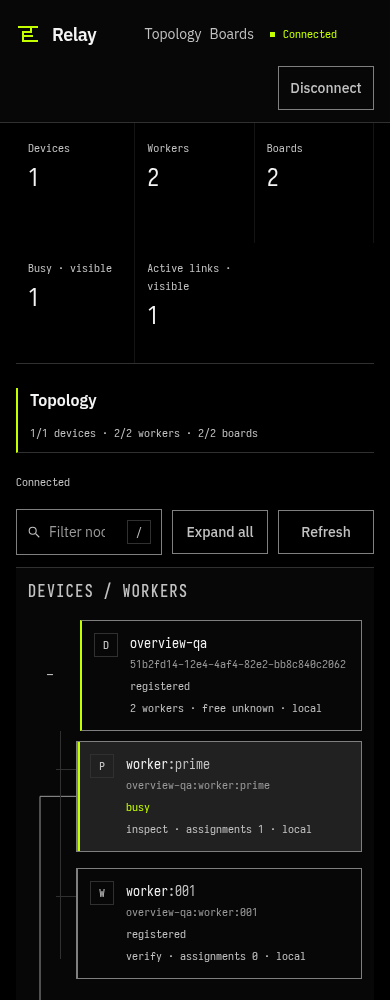
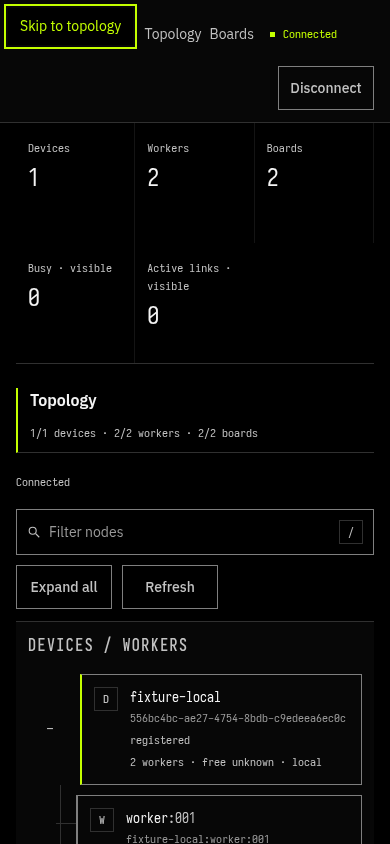
fix(ui): clarify filtered selection and narrow evidence

diff --git a/ui/style.css b/ui/style.css
@@ -157,6 +157,7 @@ a { color: inherit; text-decoration: none; }
 .connection { display: flex; align-items: center; gap: var(--sp-8); min-width: var(--connection-min-w); min-height: var(--connection-h); margin-left: auto; color: var(--c-secondary); font-family: var(--f-mono); font-size: var(--fs-xs); font-variant-numeric: tabular-nums; }
 .connection::before { content: ""; width: 5px; height: 5px; background: currentColor; flex: none; }
 .connection[data-state="connected"] { color: var(--c-accent); }
+.connection[data-state="disconnected"] { color: var(--c-danger); }
 .connection[data-state="error"] { color: var(--c-fg); }
 .connection[data-state="error"]::before { background: var(--c-danger); }
 .quiet-button { background: transparent; font-size: var(--fs-sm); color: var(--c-secondary); }
@@ -294,7 +295,7 @@ kbd { display: inline-grid; place-items: center; width: var(--key-w); height: va
   .inspector-fields dd { margin-top: var(--sp-4); }
   .topology-toolbar { flex-wrap: wrap; }
   .topology-toolbar .status-line { width: 100%; }
-  .filter-control { flex: 1; width: auto; min-width: 8rem; }
+  .filter-control { flex: 0 0 100%; width: auto; min-width: 0; }
   .topology-toolbar .quiet-button { padding-inline: var(--sp-8); }
   .topology-footer > span:last-child { display: none; }
   .section-heading { flex-wrap: wrap; }

diff --git a/quality-report.md b/quality-report.md
@@ -22,6 +22,7 @@ This report covers the Relay overview/topology composition and its existing stat
 | desktop initial | `docs/frames/01-initial-topology.png` | top-down source/record hierarchy, active path, inspector, real committed state |
 | filtered transformation | `docs/frames/02-filtered-transformation.png` | query state, stable inspector, intentional no-match result |
 | mobile composition | `docs/frames/03-mobile-composition.png` | narrow recomposition, two-column metrics, stacked topology and controls |
+| mobile board lane | `docs/frames/04-mobile-board-lane.png` | 390px lower scroll with board tier, inspector, records, and no horizontal overflow |
 | disconnected | `docs/captures/disconnected.png` | explicit disconnected state and recovery affordance |
 | denied | `docs/captures/metadata-denied.png` | explicit permission/error state |
 | cached | `docs/captures/offline-cached.png` | named offline cached state |
@@ -29,7 +30,7 @@ This report covers the Relay overview/topology composition and its existing stat
 | 200% text | `docs/captures/text-200.png` | readable large-text narrow composition |
 | signature recording | `docs/recordings/committed-event.webm` | three-second committed-event pulse captured from the functioning fixture |
 
-The fixture exercised 320, 360, 390, 760, 1000, and 1440 pixel compositions, filter, selection, keyboard navigation, collapse/expand, refresh, committed-event feedback, reduced motion, and state recovery. The captured evidence is generated from an isolated real Relay store and broker.
+The fixture exercised 320, 360, 390, 760, 1000, and 1440 pixel compositions, filter, selection, keyboard navigation, collapse/expand, refresh, committed-event feedback, reduced motion, and state recovery. The responsive capture runner also records the 1440px, 1000px, 390px top, and 390px board-lane compositions in `docs/captures/responsive-capture.json`. The captured evidence is generated from an isolated real Relay store and broker.
 
 ## Accessibility review
 
@@ -50,10 +51,10 @@ The fixture exercised 320, 360, 390, 760, 1000, and 1440 pixel compositions, fil
 
 ## Critical comparison against the design brief
 
-1. **Identity:** Relay's black field, compact typography, square geometry, lime activity, teal board role, gold metadata, and explicit red failure states remain intact.
+1. **Identity:** Relay's black field, compact typography, square geometry, lime activity, teal board role, gold metadata, and explicit red failure states remain intact. Disconnected state now uses the red role marker described by the style bible.
 2. **Distinction:** the two-tier signal lattice and role edge system give the overview a structural identity beyond a conventional list.
 3. **Motion:** the only moving signal represents a real committed event and preserves the existing path.
-4. **Function:** filters, selection, branch collapse/expansion, refresh, inspection, and recovery remain connected to real state.
+4. **Function:** filters, selection, branch collapse/expansion, refresh, inspection, and recovery remain connected to real state. A retained selection is labeled `filtered out` when a query hides it, preserving spatial continuity without implying it remains in the result set.
 5. **Responsive behavior:** desktop, tablet, narrow, and 200% text layouts are intentionally recomposed rather than merely cropped.
 
 ## Human review items

diff --git a/ledger.md b/ledger.md
@@ -41,7 +41,29 @@
 - Disconnected, denied, cached, and empty states are explicit and visually distinct.
 - Text at 200% remains readable in the captured narrow state.
 
-**Remaining review item:** the agent family spawned for an independent critic could not be collected because the plugin returned `AGENTS_BUSY: no agent family belongs to this conversation`. This ledger is therefore an explicitly non-independent review. A human should inspect the live experience with a real device/browser pair before publication.
+**Historical note:** this round was explicitly non-independent because the first critic worker family could not be collected. It is retained as a record of the self-review, not as the final approval.
+
+## Round 3: independent final review and correction pass
+
+**Evidence:** fresh independent inspection of the rendered frames, the live fixture, and the responsive capture runner on 2026-10-18.
+
+**Findings**
+
+1. A retained inspector selection needed an explicit `filtered out` cue when a query produced no matching topology nodes.
+2. The narrow filter control was visually cramped; a full-row control makes its placeholder and action affordance readable at 390px.
+3. Disconnected state needed the red failure marker defined by the style bible.
+4. The original narrow frame did not show the lower board/inspector lane.
+
+**Corrections**
+
+- The inspector now receives the active query and labels a retained selection `Worker · filtered out` when the result set hides it.
+- Narrow filters occupy a full row while action buttons retain their 96px contract.
+- Disconnected connection markers use the danger role color.
+- Added `docs/frames/04-mobile-board-lane.png` and `docs/captures/responsive-capture.json`; refreshed the filtered and top narrow frames from the current fixture.
+
+**Verification:** overview fixture 18 passed with zero runtime exceptions and zero CSP violations; native package checks and repository tests rerun after the correction pass.
+
+**Independent verdict:** `ship` for the scoped source and fixture-verified experience, with the live-device review items in `quality-report.md` remaining human-owned.
 
 ## Verdict
 

diff --git a/interaction-map.md b/interaction-map.md
@@ -6,7 +6,7 @@
 | connect | connect/retry control | status changes when the real connection resolves | topology is populated only from the returned snapshot | Enter/Space on focused control |
 | connected | authenticated snapshot | devices, workers, boards, and records render in the two-tier lattice | inspector keeps the current selection or chooses the first real object | Tab through semantic controls |
 | select node | click/tap a device, worker, or board | role edge and selection marker move; inspector updates | topology does not reflow around the inspector | Arrow keys move through visible node order; Enter selects |
-| filter | type in topology filter | only matching branches remain; empty copy appears when there are no matches | clearing the filter restores the prior lattice | input supports normal text editing and Escape clear where provided |
+| filter | type in topology filter | only matching branches remain; empty copy appears when there are no matches; a retained selection is labeled filtered out in the inspector | clearing the filter restores the prior lattice | input supports normal text editing and Escape clear where provided |
 | collapse branch | collapse control on a device/worker branch | branch contents hide and control label changes | selection remains valid if the selected node is still present | Enter/Space on the control |
 | expand large branch | `N more workers · expand` control | hidden worker nodes become visible in the same branch | no fake pagination; all real matching workers are exposed | Enter/Space on the control |
 | committed event | real claim/post succeeds | existing SVG path receives a bounded lime pulse | committed record appears in the records surface and event settles | same action is reachable from the existing control |

diff --git a/style-bible.md b/style-bible.md
@@ -59,7 +59,7 @@ The surface is intentionally untextured. Icons are small line or glyph marks alr
 - Selected nodes use lime edge weight and a readable status label.
 - Boards use teal role accents; workers remain neutral until selected.
 - Denied and disconnected states use explicit red text/markers and recovery copy.
-- Empty and filtered states use an intentional message in the workspace rather than disappearing controls.
+- Empty and filtered states use an intentional message in the workspace rather than disappearing controls. A retained inspector labels a selected object as filtered out so continuity is explicit.
 - Cached state is named as cached and visually separated from connected state.
 
 ## Responsive composition

diff --git a/docs/frames/README.md b/docs/frames/README.md
@@ -7,5 +7,6 @@ These frames are captured from the functioning Relay UI using the isolated brows
 | `01-initial-topology.png` | Connected snapshot with a committed record and active path | Desktop first impression |
 | `02-filtered-transformation.png` | Deliberate no-match topology filter | Signature interaction result |
 | `03-mobile-composition.png` | Connected narrow layout | Responsive recomposition |
+| `04-mobile-board-lane.png` | Narrow layout scrolled to the board/inspector lane | Lower-page responsive continuity |
 
 The frame set is complemented by state captures in `docs/captures/` for disconnected, denied, cached, empty, and 200% text conditions.
